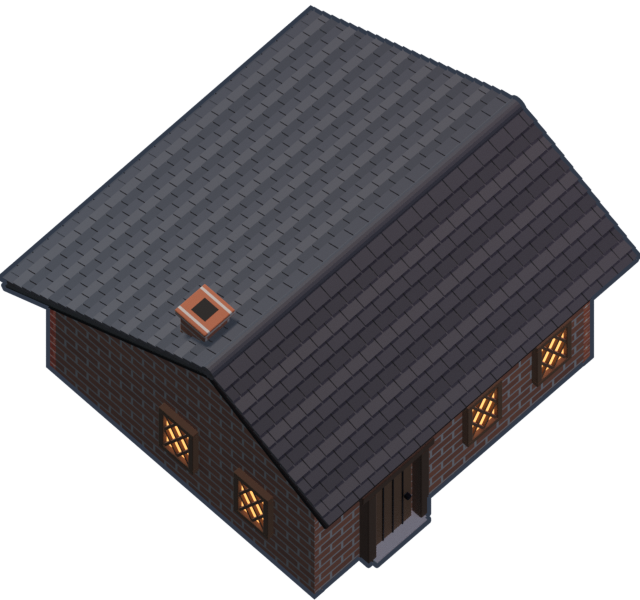
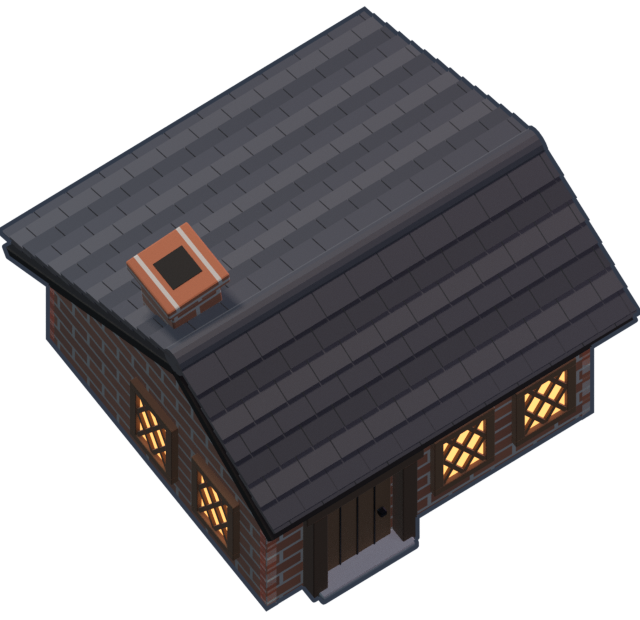
feat: exaggerate the tavern like the characters
Draw the tavern simplified and exaggerated, as the characters are: a
larger door, windows and chimney for the cottage, bigger bricks and
roof tiles, a thicker roof and ridge, thicker door posts, window frames
and lattice bars, and the chimney leaning a little. Turn it 35 degrees
instead of 45. Refresh the terrain preview, and describe the tavern's
model in the 3D README.

diff --git a/dev-samples/3d-stage1/build-tavern.py b/dev-samples/3d-stage1/build-tavern.py
@@ -12,8 +12,9 @@ wall, like a catslide roof, so the gables read like the kana へ), a low brick c
 ridge, a plank door in a timber frame of posts and a beam standing out
 from the wall, and
 tall, unglazed windows with diagonal lattice bars, lit softly from inside;
-no sign. The cottage is built twice its first size; the chimney, door,
-window and roof tiles keep theirs. The finished cottage is then shrunk to
+no sign. Like the characters, it is drawn simplified and exaggerated:
+a large door, windows and chimney for the cottage, big bricks and tiles, a
+thick roof and ridge, and the chimney leaning a little. The finished cottage is then shrunk to
 fit the two cells' width, whatever that makes its scale beside the
 characters. The canvas is the two cells wide; it covers OVERHANG cells
 north of them, where the roof and chimney rise, and UNDER cells south of
@@ -60,13 +61,17 @@ EAVE_OUT, GABLE_OUT = 0.10 * SCALE, 0.06 * SCALE
 BACK_DEPTH = 0.635 * SCALE
 NORTH = RIDGE_Y + BACK_DEPTH
 BACK_EAVES = EAVES + RIDGE_RISE - BACK_DEPTH * math.tan(PITCH)
-ROOF_THICK = 0.03
-# Turned toward screen right, further than the monsters (MONSTER_YAW in
-# build-heroic.py turns them 30 degrees the other way).
-YAW = math.radians(45)
+# A thick roof, so its edges read as a chunky slab, like a toy's.
+ROOF_THICK = 0.07
+# Turned toward screen right, a little further than the monsters (MONSTER_YAW
+# in build-heroic.py turns them 30 degrees the other way); 10 degrees less
+# than at first, so the cottage is a little narrower on screen and is
+# shrunk less to fit the cells.
+YAW = math.radians(35)
 # The roof tiles: width, the step between courses down the slope, each
-# tile's length (so the courses overlap) and thickness.
-TILE_W, TILE_STEP, TILE_LEN, TILE_THICK = 0.11, 0.075, 0.11, 0.018
+# tile's length (so the courses overlap) and thickness; large and few, so
+# they still read at sprite size.
+TILE_W, TILE_STEP, TILE_LEN, TILE_THICK = 0.20, 0.13, 0.19, 0.03
 
 
 def material(name, color, roughness=0.65, metallic=0.0, rim_strength=0.0,
@@ -117,9 +122,9 @@ def brick(name, across):
     texture.inputs['Color2'].default_value = (0.32, 0.11, 0.06, 1)
     texture.inputs['Mortar'].default_value = (0.55, 0.50, 0.44, 1)
     texture.inputs['Scale'].default_value = 1.0
-    texture.inputs['Mortar Size'].default_value = 0.008
-    texture.inputs['Brick Width'].default_value = 0.16
-    texture.inputs['Row Height'].default_value = 0.07
+    texture.inputs['Mortar Size'].default_value = 0.012
+    texture.inputs['Brick Width'].default_value = 0.26
+    texture.inputs['Row Height'].default_value = 0.11
     texture.inputs['Bias'].default_value = -0.2
     links.new(position.outputs['Object'], split.inputs[0])
     links.new(split.outputs[across], plane.inputs['X'])
@@ -250,50 +255,57 @@ for side, name in ((-1, 'South'), (1, 'North')):
         -ROOF_THICK / 2, ROOF_THICK / 2, boards, 0.004, rotation=(angle, 0, 0))
     bpy.context.object.location = centre
     tile_courses(name + ' roof', ridge, x_axis, down, out, (left, right), (0, run))
-bpy.ops.mesh.primitive_cylinder_add(vertices=16, radius=0.045, depth=right - left,
-                                    location=(0, mid, top + ROOF_THICK + 0.01),
+bpy.ops.mesh.primitive_cylinder_add(vertices=16, radius=0.08, depth=right - left,
+                                    location=(0, mid, top + ROOF_THICK + 0.02),
                                     rotation=(0, math.pi / 2, 0))
 finish(bpy.context.object, 'Ridge tiles', tiles[0])
 
-# A low brick chimney at the west gable, the one turned toward the camera,
-# set back behind the ridge on the north slope, with a corbelled brick top
-# and a dark flue; it keeps its first size, set back as far for the
-# cottage's size.
-cx0, cx1 = -HALF_W + 0.02, -HALF_W + 0.20
-cy0 = mid + 0.08 * SCALE
-cy1 = cy0 + 0.18
-chimney_top = top + 0.06
-box('Chimney', cx0, cx1, cy0, cy1, EAVES, chimney_top, brick_front, 0.006)
-box('Chimney corbel', cx0 - 0.02, cx1 + 0.02, cy0 - 0.02, cy1 + 0.02, chimney_top,
-    chimney_top + 0.04, brick_front, 0.006)
-box('Chimney flue', cx0 + 0.04, cx1 - 0.04, cy0 + 0.04, cy1 - 0.04, chimney_top + 0.035,
-    chimney_top + 0.042, boards, 0)
+# A stout brick chimney at the west gable, the one turned toward the camera,
+# set back behind the ridge on the north slope, with a thick corbelled brick
+# top and a dark flue; drawn large for the cottage, and leaning a little
+# toward the west, like a toy's.
+cx0, cx1 = -HALF_W + 0.04, -HALF_W + 0.34
+cy0 = mid + 0.16
+cy1 = cy0 + 0.30
+chimney_top = top + 0.28
+chimney_start = set(bpy.data.objects)
+box('Chimney', cx0, cx1, cy0, cy1, EAVES, chimney_top, brick_front, 0.01)
+box('Chimney corbel', cx0 - 0.04, cx1 + 0.04, cy0 - 0.04, cy1 + 0.04, chimney_top,
+    chimney_top + 0.08, brick_front, 0.01)
+box('Chimney flue', cx0 + 0.06, cx1 - 0.06, cy0 + 0.06, cy1 - 0.06, chimney_top + 0.075,
+    chimney_top + 0.085, boards, 0)
+base = Vector(((cx0 + cx1) / 2, (cy0 + cy1) / 2, EAVES))
+lean = (Matrix.Translation(base) @ Matrix.Rotation(math.radians(-5), 4, 'Y')
+        @ Matrix.Translation(-base))
+bpy.context.view_layer.update()
+for obj in set(bpy.data.objects) - chimney_start:
+    obj.matrix_world = lean @ obj.matrix_world
 
-# The front: a plank door with a doorstep, and a tall, unglazed window lit
-# softly from inside, framed in oak; both keep their first sizes, placed
-# about as far from the middle for the cottage's size.
-DOOR_X0, DOOR_X1, DOOR_TOP = -0.60, -0.32, 0.62
+# The front: a plank door with a doorstep, and tall, unglazed windows lit
+# softly from inside, framed in thick oak; both drawn large for the cottage,
+# so they read at sprite size, the door's top tucked under the eaves.
+DOOR_X0, DOOR_X1, DOOR_TOP = -0.67, -0.25, 0.74
 front = SOUTH - 0.012
 box('Door', DOOR_X0, DOOR_X1, front - 0.01, SOUTH + 0.01, 0.0, DOOR_TOP, wood, 0.006)
 for k in range(1, 4):
     px = DOOR_X0 + k * (DOOR_X1 - DOOR_X0) / 4
     box('Door plank gap', px - 0.004, px + 0.004, front - 0.016, front, 0.02, DOOR_TOP - 0.02,
         dark_iron, 0)
-box('Door handle', DOOR_X1 - 0.06, DOOR_X1 - 0.03, front - 0.04, front - 0.01, 0.28, 0.31,
-    dark_iron, 0.005)
-box('Doorstep', DOOR_X0 - 0.05, DOOR_X1 + 0.05, SOUTH - 0.10, SOUTH, 0, 0.03, stone, 0.006)
+box('Door handle', DOOR_X1 - 0.09, DOOR_X1 - 0.05, front - 0.05, front - 0.01, 0.34, 0.38,
+    dark_iron, 0.008)
+box('Doorstep', DOOR_X0 - 0.08, DOOR_X1 + 0.08, SOUTH - 0.14, SOUTH, 0, 0.05, stone, 0.01)
 # A timber frame stands out from the wall around the door: a post either
 # side and a beam across above the door.
-POST, STAND_OUT, BEAM_Z0, BEAM_Z1 = 0.06, 0.07, DOOR_TOP + 0.05, DOOR_TOP + 0.11
+POST, STAND_OUT, BEAM_Z0, BEAM_Z1 = 0.09, 0.10, DOOR_TOP + 0.04, DOOR_TOP + 0.13
 x_lo, x_hi = DOOR_X0 - 0.02 - POST, DOOR_X1 + 0.02 + POST
 for px in (x_lo, x_hi - POST):
     box('Door post', px, px + POST, SOUTH - STAND_OUT, SOUTH, 0.0, BEAM_Z0, timber, 0.006)
 box('Door beam', x_lo - 0.04, x_hi + 0.04, SOUTH - STAND_OUT, SOUTH, BEAM_Z0, BEAM_Z1, timber,
     0.006)
-WIN_W, WIN_Z0, WIN_Z1, F = 0.18, 0.30, 0.62, 0.035
+WIN_W, WIN_Z0, WIN_Z1, F = 0.26, 0.24, 0.66, 0.055
 # The windows' bars cross diagonally in a lattice of tall diamonds: bars
 # this thick, rising this steeply, LATTICE diamonds across.
-BAR, BAR_RISE, LATTICE = 0.016, 1.8, 2
+BAR, BAR_RISE, LATTICE = 0.026, 1.8, 2
 
 
 def window(a0, wall, at):
